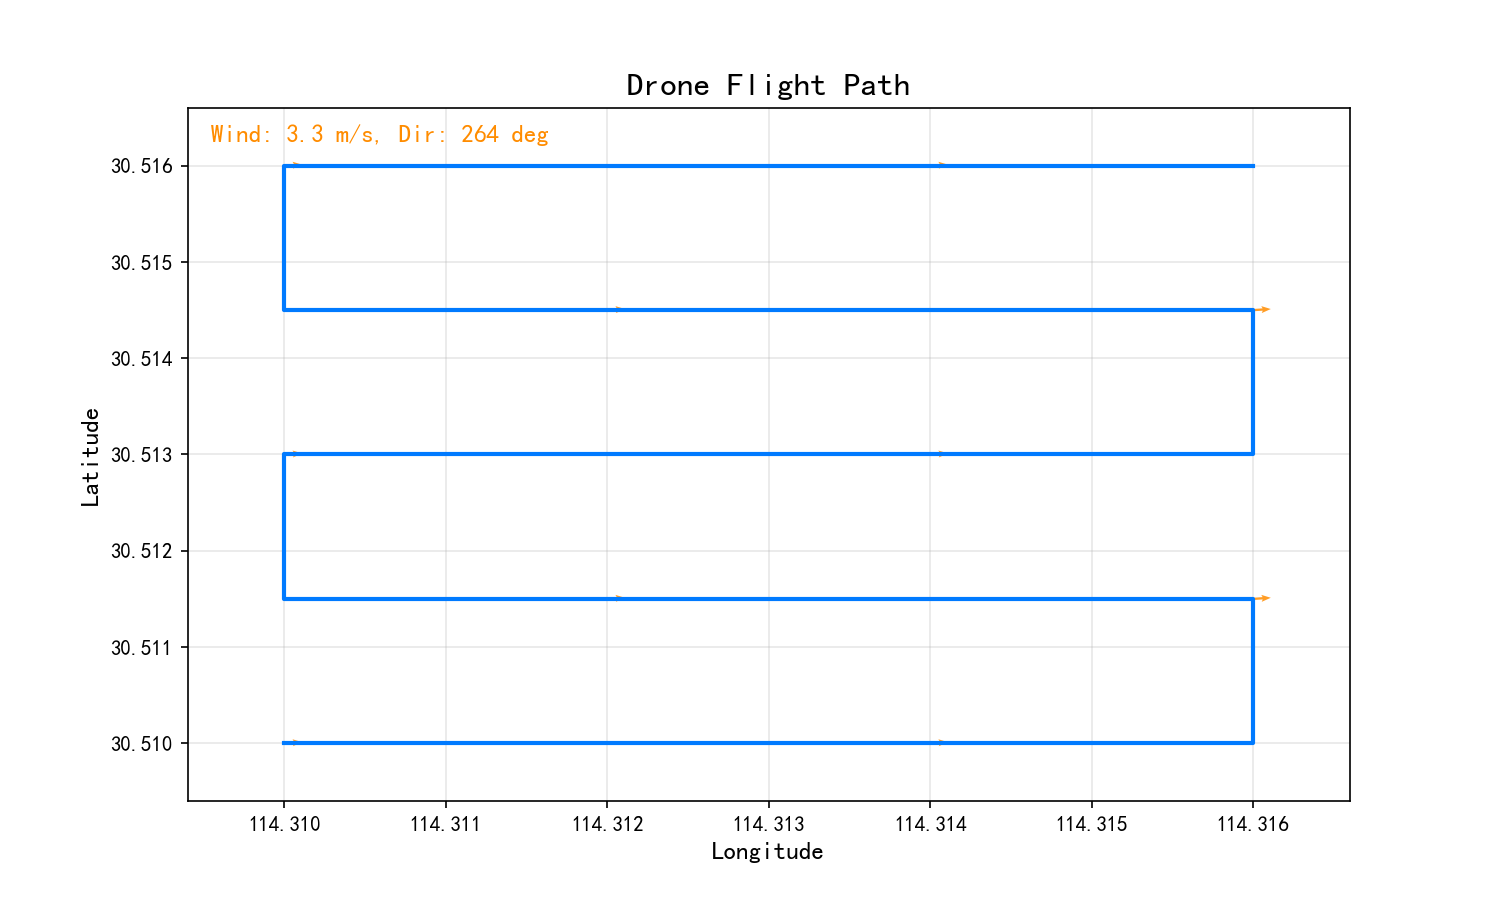
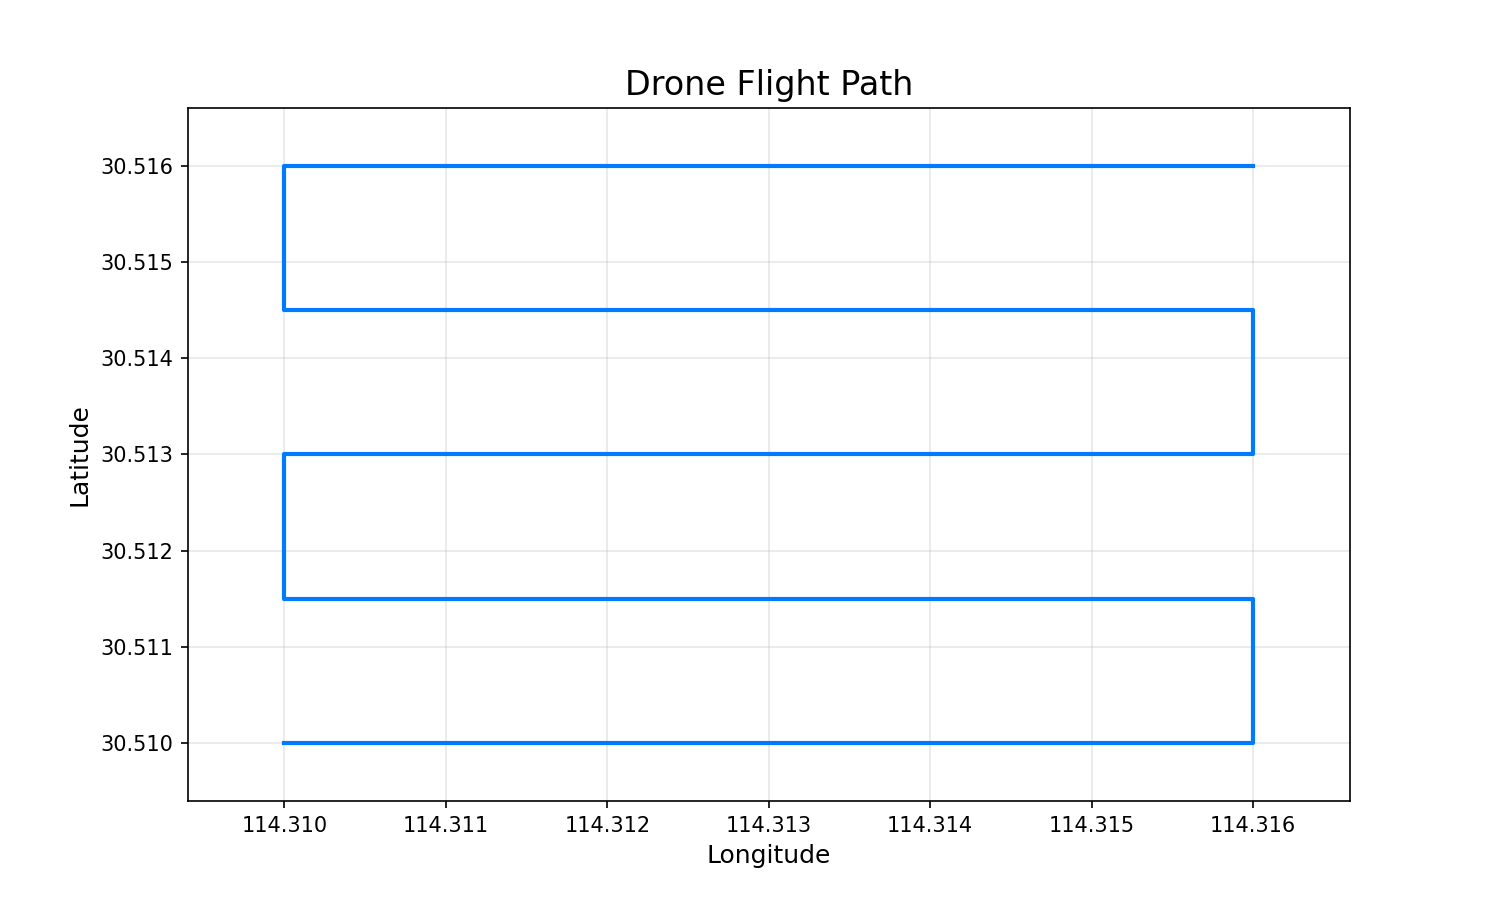
Fix: define img_path variable and fix download href

diff --git a/app.py b/app.py
@@ -151,26 +151,52 @@ import requests
 import math
 
 def get_wind_data(lat, lon, date_str):
-    """从Open-Meteo获取风场数据（免费，无需API Key）"""
-    url = "https://api.open-meteo.com/v1/forecast"
-    params = {
-        "latitude": lat, "longitude": lon,
-        "hourly": "wind_speed_10m,wind_direction_10m",
-        "start_date": date_str, "end_date": date_str,
-        "timezone": "Asia/Shanghai"
-    }
-    resp = requests.get(url, params=params).json()
-    hourly = resp['hourly']
-    return hourly['wind_speed_10m'][12], hourly['wind_direction_10m'][12]
+    # ===== 主数据源：Open-Meteo =====
+    try:
+        url = "https://api.open-meteo.com/v1/forecast"
+        params = {
+            "latitude": lat, "longitude": lon,
+            "hourly": "wind_speed_10m,wind_direction_10m",
+            "start_date": date_str, "end_date": date_str,
+            "timezone": "Asia/Shanghai"
+        }
+        resp = requests.get(url, params=params, timeout=10).json()
+        hourly = resp.get('hourly')
+        if hourly and 'wind_speed_10m' in hourly and len(hourly['wind_speed_10m']) > 12:
+            print("========== 数据源: Open-Meteo ==========")
+            return hourly['wind_speed_10m'][12], hourly['wind_direction_10m'][12]
+    except Exception as e:
+        print(f"Open-Meteo 失败: {e}")
 
+    # ===== 备用数据源：NASA POWER =====
+    try:
+        url = "https://power.larc.nasa.gov/api/temporal/hourly/point"
+        params = {
+            "parameters": "WS10M,WD10M",
+            "community": "RE",
+            "longitude": lon,
+            "latitude": lat,
+            "start": date_str.replace("-", ""),
+            "end": date_str.replace("-", ""),
+            "format": "JSON"
+        }
+        resp = requests.get(url, params=params, timeout=15).json()
+        data = resp.get("properties", {}).get("parameter", {})
+        ws = list(data.get("WS10M", {}).values())
+        wd = list(data.get("WD10M", {}).values())
+        if ws and wd:
+            print("========== 数据源: NASA POWER ==========")
+            return ws[12], wd[12]
+    except Exception as e:
+        print(f"NASA POWER 失败: {e}")
+
+    # ===== 兜底：都失败就返回 0，不让程序崩 =====
+    print("========== 数据源: 全部失败，用默认值 ==========")
+    return 0.0, 0.0
 def wind_to_uv(speed, direction_deg):
     """风向转U/V分量（画箭头用）"""
     rad = math.radians(direction_deg)
     return -speed * math.sin(rad), -speed * math.cos(rad)
-
-@app.route('/download_report/<filename>')
-def download_report(filename):
-       return send_file(f'/tmp/{filename}', as_attachment=True, download_name=filename)
 @app.route('/', methods=['GET', 'POST'])
 def index():
     if request.method == 'POST':
@@ -182,7 +208,7 @@ def index():
                 lat_col, lon_col = find_lat_lon(df)
                 
                 if lat_col and lon_col:
-                    # 2. 基础画图
+                    # ===== 1. 基础轨迹图 =====
                     plt.figure(figsize=(10,6))
                     plt.plot(df[lon_col], df[lat_col], linewidth=2, color='#007AFF')
                     plt.xlabel('Longitude', fontsize=12)
@@ -192,45 +218,83 @@ def index():
                     plt.grid(True, alpha=0.3)
                     plt.margins(0.1)
                     
-                    # 3. 保存图片
+                    # ===== 2. 叠加风场（专业流线图）=====
+                    try:
+                        import xarray as xr
+                        import numpy as np
+                        import skyborn as skb
+                        from datetime import datetime
+                        
+                        lat0 = df[lat_col].iloc[0]
+                        lon0 = df[lon_col].iloc[0]
+                        date_str = datetime.now().strftime('%Y-%m-%d')
+                        
+                        wind_speed, wind_dir = get_wind_data(lat0, lon0, date_str)
+                        u, v = wind_to_uv(wind_speed, wind_dir)
+                        
+                        # 构造网格数据集
+                        lons = np.linspace(df[lon_col].min(), df[lon_col].max(), 20)
+                        lats = np.linspace(df[lat_col].min(), df[lat_col].max(), 20)
+                        lon_grid, lat_grid = np.meshgrid(lons, lats)
+                        u_grid = np.full_like(lon_grid, u, dtype=float)
+                        v_grid = np.full_like(lat_grid, v, dtype=float)
+                        
+                        ds = xr.Dataset(
+                            {"u": (["lat", "lon"], u_grid), "v": (["lat", "lon"], v_grid)},
+                            coords={"lat": lats, "lon": lons}
+                        )
+                        
+                        # 绘制流线图
+                        skb.curly_vector(ds, x="lon", y="lat", u="u", v="v",
+                                         density=1.5, linewidth=1.0,
+                                         color="#FF8C00", alpha=0.8)
+                        
+                        plt.text(0.02, 0.95, f"Wind: {wind_speed} m/s, Dir: {wind_dir} deg",
+                                 transform=plt.gca().transAxes, color='#FF8C00', fontsize=12)
+                    except Exception as e:
+                        print(f"========== 风场生成失败: {str(e)} ==========")
+                    # ===== 3. 保存图片 =====
                     os.makedirs('static', exist_ok=True)
-                    plt.savefig('static/track.png', dpi=150)
+                    img_path = 'static/track.png'    # 👈 存这里，网页才能显示
+                    plt.savefig(img_path, dpi=150)
                     plt.close()
                     
-                    # 4. 生成 PDF（直接放在 /tmp/ 目录）
+                    # ===== 4. 生成 PDF =====
                     from datetime import datetime
                     timestamp = datetime.now().strftime('%Y%m%d_%H%M%S')
                     pdf_filename = f'report_{timestamp}.pdf'
-                    pdf_path = f'/tmp/{pdf_filename}' # Linux的临时目录
                     
-                    flight_data = {
-                        'points': len(df),
-                        'max_alt': df['altitude'].max() if 'altitude' in df.columns else 'N/A'
-                    }
-                    # 直接调用你的生成PDF函数
-                    success = generate_pdf_report('static/track.png', pdf_path, flight_data)
+                    import tempfile                     # 👈 魔法在此
+                    temp_dir = tempfile.gettempdir()    # 👈 自动判断系统
+                    pdf_path = os.path.join(temp_dir, pdf_filename) # 👈 自动拼路径
                     
-                    # 5. 返回下载按钮
-                    if success:
-                        return f'''
-                        <html><body style="text-align:center; padding:50px; font-family:Arial; background:#f4f4f4;">
-                            <h1>✅ Report Generated Successfully!</h1>
-                            <img src="/static/track.png" style="max-width:80%; border:2px solid #ddd; border-radius:8px; margin:20px 0;">
-                            <br>
-                            <a href="/download_report/{pdf_filename}" download style="background:#007AFF; color:white; padding:15px 40px; text-decoration:none; border-radius:50px; font-size:20px; font-weight:bold; display:inline-block;">📥 Download PDF Report</a >
-                        </body></html>
-                        '''
-                    else:
-                        return "❌ PDF生成失败，请查看服务器日志。"
+                    flight_data = {...}
+                    generate_pdf_report(img_path, pdf_path, flight_data)
+                        
+                    # ===== 5. 返回下载按钮 =====
+                    return f'''
+                    <html><body style="text-align:center; padding:50px; font-family:Arial; background:#f4f4f4;">
+                        <h1>✅ Report Generated Successfully!</h1>
+                        <img src="/static/track.png" style="max-width:80%; border:2px solid #ddd; border-radius:8px; margin:20px 0;">
+                        <br>
+                        <a href="/download_report/{pdf_filename}"download style="background:#007AFF; color:white; padding:15px 40px; text-decoration:none; border-radius:50px; font-size:20px; font-weight:bold; display:inline-block;">📥 Download PDF Report</a >
+                    </body></html>
+                    '''
                 else:
                     return f"找不到经纬度列。当前列名：{', '.join(df.columns)}"
+                    
             except Exception as e:
                 return f"读取文件出错：{str(e)}"
                 
     return render_template_string(HTML)
 
-if __name__ == '__main__':
-    # 优先使用云平台分配的端口（环境变量 PORT），如果没有，才用本地的 5000
+@app.route('/download_report/<filename>')
+def download_report(filename):
+    import tempfile, os
+    # 用魔法代码获取系统临时目录（Windows认C盘，Linux认/tmp）
+    temp_dir = tempfile.gettempdir()
+    file_path = os.path.join(temp_dir, filename)
+    return send_file(file_path, as_attachment=True, download_name=filename)
+
     port = int(os.environ.get('PORT', 5000))
     app.run(host='0.0.0.0', debug=True, port=port)
-    
